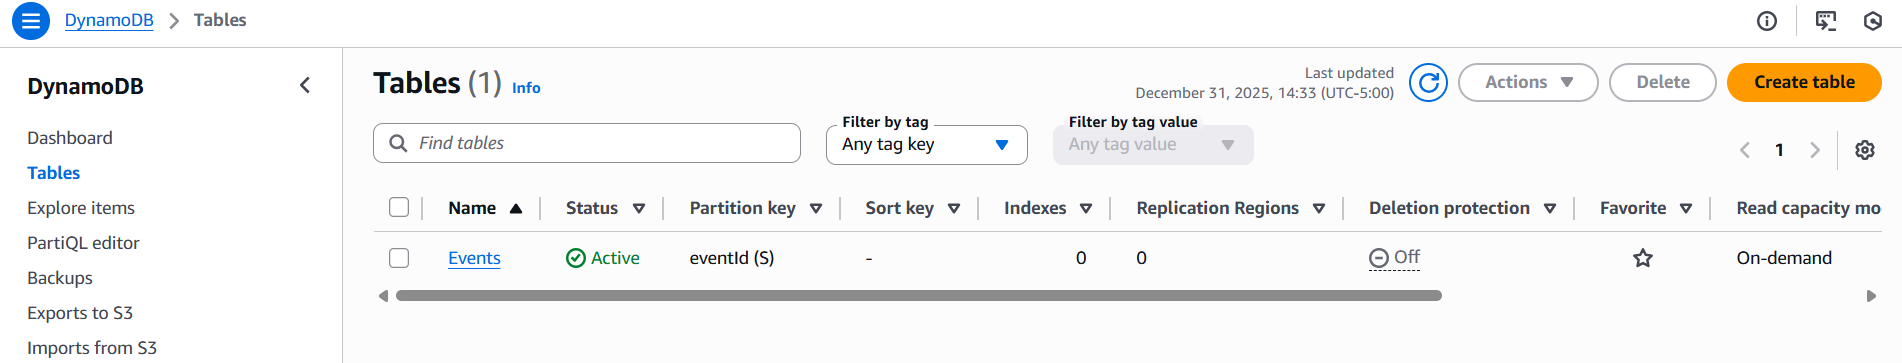
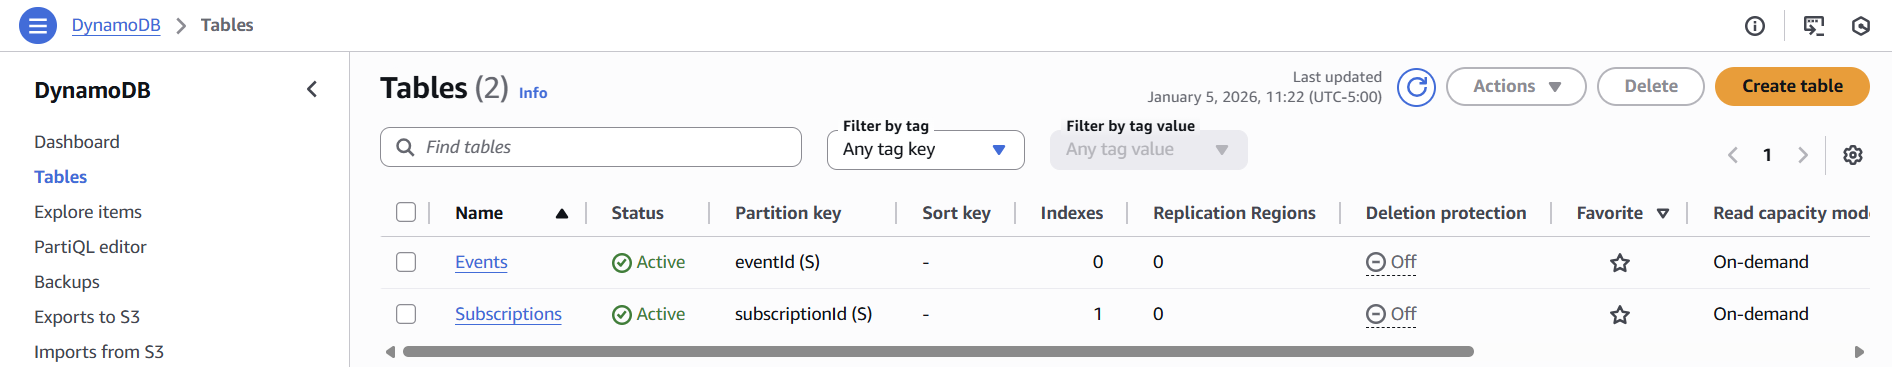
Create Subscription DynamoDB table with GSI

diff --git a/docs/aws-setup.md b/docs/aws-setup.md
@@ -44,7 +44,7 @@ The Ingest Lamda only need to: Write logs (for debugging) and Send events to the
 This table is used to store incoming events data.
 
 **Table name**: `Events`  
-**Partition key**: `eventId` (string)
+**Partition key**: `eventId` (String)
 
 **Attributes**:
 | Name | Type | Description |
@@ -57,6 +57,29 @@ This table is used to store incoming events data.
 | receivedAt | String | ISO8601, when API received it |
 | processedAt | String | ISO8601, when processor handled it |
 | status | String | PENDING, PROCESSED, NOTIFIED |
+
+## Subscriptions Table
+
+This table is used to store consumer subscription infomation.
+
+**Table name**: `Subscriptions`  
+**Partition key**: `subscriptionId` (String)
+
+**Global Secondary Index**: eventType-index
+
+- Partition key: eventType (String)
+- Purpose: Efficiently find all subscriptions for a given event type
+
+**Attributes**:
+| Name | Type | Description |
+|------|------|-------------|
+| subscriptionId | String | Primary key (sub_xxx format) |
+| eventType | String | Event type to match (indexed via GSI) |
+| severityFilter | String | LOW, MEDIUM, HIGH, CRITICAL |
+| channel | String | EMAIL or WEBHOOK |
+| target | String | Email address or webhook URL |
+| active | Boolean | Whether subscription is active |
+| createdAt | String | ISO8601 timestamp |
 
 ## API Gateway
 
